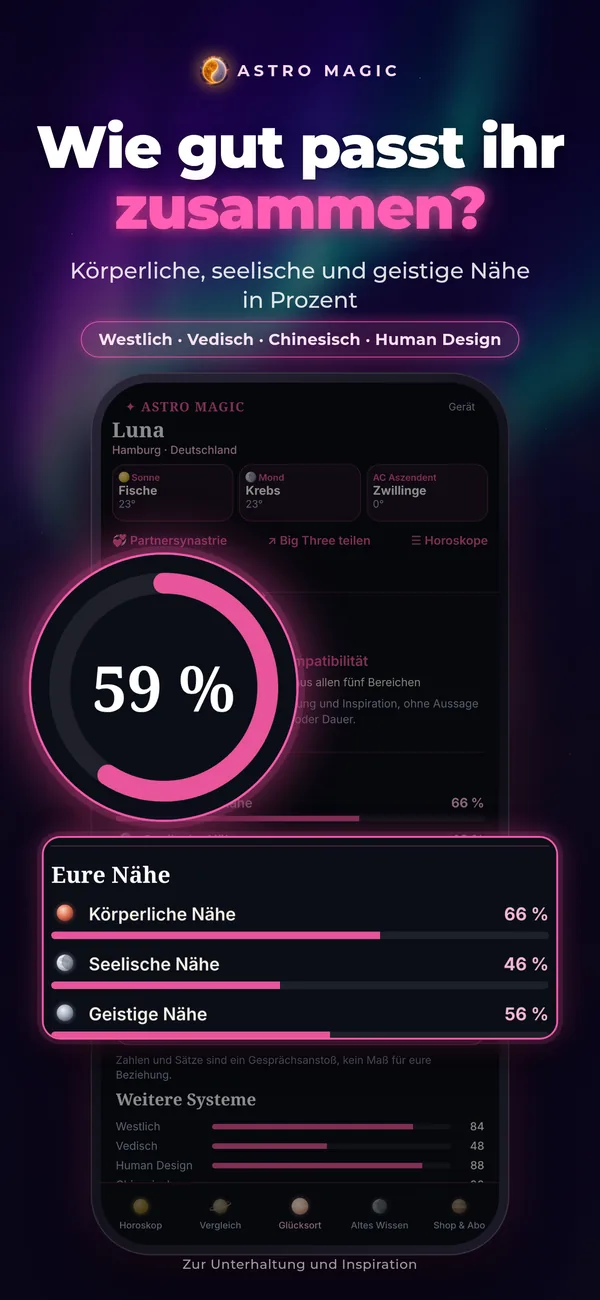
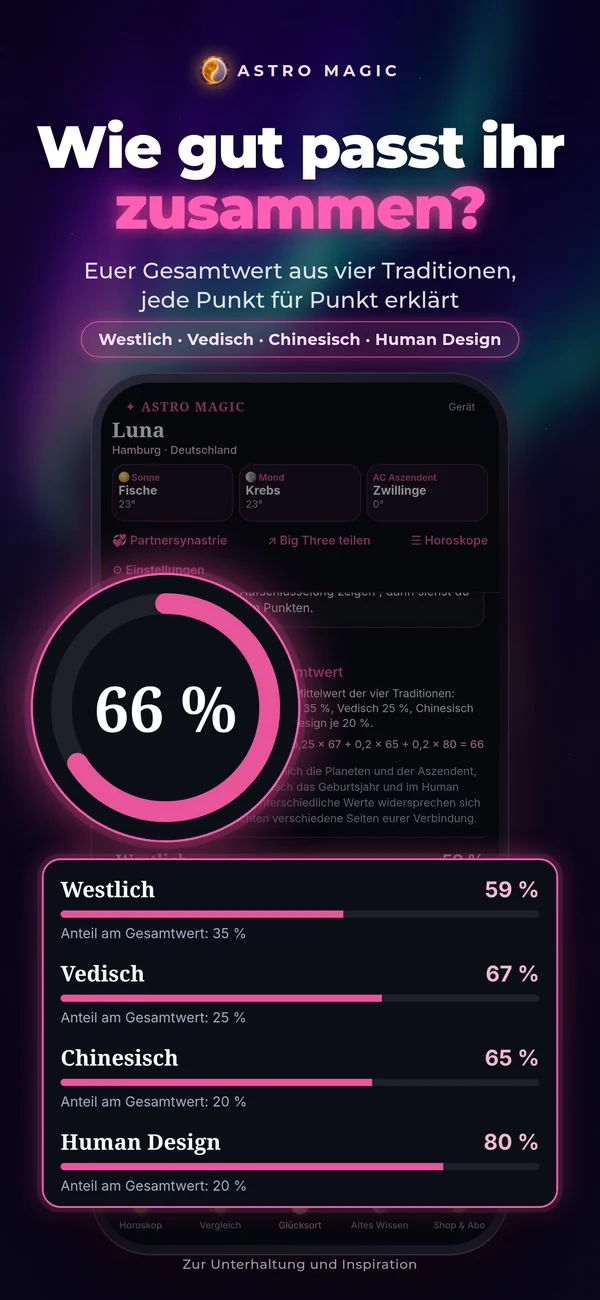
fix: Partnerkarte zeigt 66 Prozent aus vier Traditionen (#19)
Die dritte Store-Karte und ihr Alt-Text nennen den Gesamtwert aus vier Traditionen.

Changed region(s): [[0.03, 0.4, 0.96, 0.9538], [0.12, 0.1846, 0.87, 0.2462], [0.78, 0.5538, 0.81, 0.5846]]

diff --git a/astro-magic/index.html b/astro-magic/index.html
@@ -78,10 +78,10 @@
             </div>
           </article>
           <article class="card">
-            <img src="/assets/astro-magic/03-partnerhoroskop-600w.webp" width="600" height="1300" loading="lazy" alt="Astro Magic Partnerhoroskop mit Beispielwert 59 Prozent und eurer Nähe in drei Bereichen." />
+            <img src="/assets/astro-magic/03-partnerhoroskop-600w.webp" width="600" height="1300" loading="lazy" alt="Astro Magic Partnersynastrie mit Gesamtwert 66 Prozent aus vier Traditionen." />
             <div class="txt">
               <h3 class="serif">Wie gut passt ihr zusammen?</h3>
-              <p>Das Partnerhoroskop zeigt euren Gesamtwert und eure körperliche, seelische und geistige Nähe in Prozent. Die Grundauswertung ist gratis.</p>
+              <p>Das Partnerhoroskop zeigt euren Gesamtwert, 66 Prozent aus vier Traditionen. Die Grundauswertung ist gratis.</p>
             </div>
           </article>
         </div>
